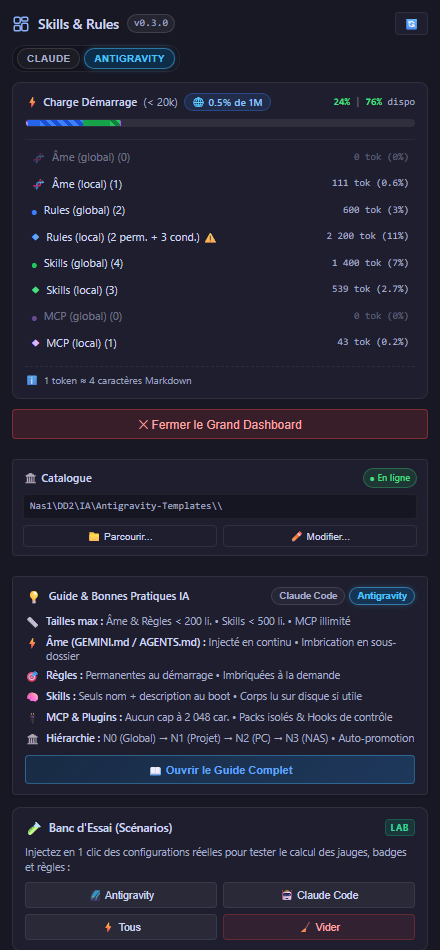
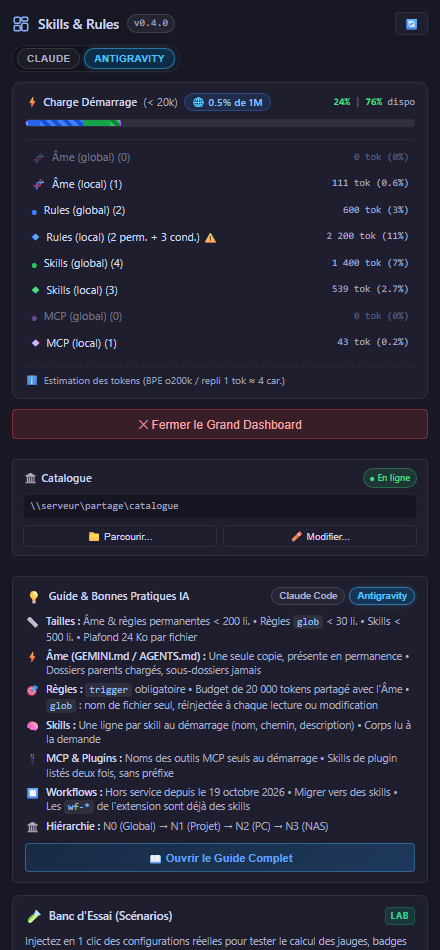
chore: remplacer les données d'infrastructure réelles par des exemples génériques
- Captures d'écran régénérées (dashboard.png, sidebar.png, cheatsheet.png)
  à partir d'un état fictif assaini : catalogue \serveur\partage\catalogue,
  aucun service réel dans les descriptions, version v0.4.0.
- capture-webviews.js : chemins, description de wf-deploy et version
  assainis.
- Exemples de chemins UNC remplacés par \serveur\partage dans les
  commentaires de NasPathService et NasScanner, dans les tests et dans
  le skill wf-github-publish.
- README : nombre de tests retiré de la section Tests.

diff --git a/.agents/skills/wf-github-publish/scripts/capture-webviews.js b/.agents/skills/wf-github-publish/scripts/capture-webviews.js
@@ -60,7 +60,7 @@ const vsCodeThemeVars = `
 const realisticState = {
   nasStatus: {
     online: true,
-    path: "\\\\Nas1\\DD2\\IA\\Antigravity-Templates",
+    path: "\\\\serveur\\partage\\catalogue",
     checkedAt: Date.now()
   },
   workspace: {
@@ -94,7 +94,7 @@ const realisticState = {
       scope: "nas",
       enabled: true,
       lineCount: 45,
-      path: "\\\\Nas1\\DD2\\IA\\Antigravity-Templates\\GEMINI.md",
+      path: "\\\\serveur\\partage\\catalogue\\GEMINI.md",
       syncStatus: "synced",
       metadata: { isSoul: true, locked: true }
     },
@@ -106,7 +106,7 @@ const realisticState = {
       scope: "nas",
       enabled: true,
       lineCount: 35,
-      path: "\\\\Nas1\\DD2\\IA\\Antigravity-Templates\\rules\\01-rule-perm-standard-always-on.md",
+      path: "\\\\serveur\\partage\\catalogue\\rules\\01-rule-perm-standard-always-on.md",
       syncStatus: "synced",
       metadata: { isPermanent: true }
     },
@@ -118,7 +118,7 @@ const realisticState = {
       scope: "nas",
       enabled: true,
       lineCount: 68,
-      path: "\\\\Nas1\\DD2\\IA\\Antigravity-Templates\\skills\\skill-brainstorming\\SKILL.md",
+      path: "\\\\serveur\\partage\\catalogue\\skills\\skill-brainstorming\\SKILL.md",
       syncStatus: "synced"
     },
     {
@@ -129,19 +129,19 @@ const realisticState = {
       scope: "nas",
       enabled: true,
       lineCount: 91,
-      path: "\\\\Nas1\\DD2\\IA\\Antigravity-Templates\\skills\\wf-commit\\SKILL.md",
+      path: "\\\\serveur\\partage\\catalogue\\skills\\wf-commit\\SKILL.md",
       syncStatus: "synced",
       metadata: { isWorkflow: true }
     },
     {
       id: "wf-deploy",
       name: "wf-deploy",
-      description: "Action : Déploiement sécurisé GitHub avec webhook Coolify",
+      description: "Action : Déploiement sécurisé en production par webhook",
       type: "skill",
       scope: "nas",
       enabled: true,
       lineCount: 53,
-      path: "\\\\Nas1\\DD2\\IA\\Antigravity-Templates\\skills\\wf-deploy\\SKILL.md",
+      path: "\\\\serveur\\partage\\catalogue\\skills\\wf-deploy\\SKILL.md",
       syncStatus: "synced",
       metadata: { isWorkflow: true }
     }
@@ -311,7 +311,7 @@ function buildDashboardHtml() {
   let html = tpl
     .replace(/<meta http-equiv="Content-Security-Policy"[^>]*>/i, '')
     .replace(/<link rel="stylesheet" href="\{\{styleUri\}\}">/i, `<style>${stylesCss}\n${vsCodeThemeVars}</style>`)
-    .replace('{{version}}', 'v0.3.0');
+    .replace('{{version}}', 'v0.4.0');
 
   const injectScript = `
   <script>
@@ -345,7 +345,7 @@ function buildSidebarHtml() {
   let html = tpl
     .replace(/<meta http-equiv="Content-Security-Policy"[^>]*>/i, '')
     .replace(/<link rel="stylesheet" href="\{\{styleUri\}\}">/i, `<style>${stylesCss}\n${vsCodeThemeVars}</style>`)
-    .replace('{{version}}', 'v0.3.0');
+    .replace('{{version}}', 'v0.4.0');
 
   const injectScript = `
   <script>
@@ -379,7 +379,7 @@ function buildCheatSheetHtml() {
   let html = tpl
     .replace(/<meta http-equiv="Content-Security-Policy"[^>]*>/i, '')
     .replace(/<link rel="stylesheet" href="\{\{styleUri\}\}">/i, `<style>${stylesCss}\n${vsCodeThemeVars}</style>`)
-    .replace('{{version}}', 'v0.3.0');
+    .replace('{{version}}', 'v0.4.0');
 
   const injectScript = `
   <script>

diff --git a/test/settings.test.ts b/test/settings.test.ts
@@ -340,8 +340,8 @@ describe('Suite de Tests : Réglages des registres et du répertoire NAS', () =>
   });
 
   test("17. Chemins réseau : chaque syntaxe de plateforme est normalisée sans être dénaturée", () => {
-    assert.strictEqual(normalizeNetworkPath('\\\\Nas1\\DD2\\IA\\skills\\'), '\\\\Nas1\\DD2\\IA\\skills');
-    assert.strictEqual(normalizeNetworkPath('//Nas1/DD2/IA/skills'), '\\\\Nas1\\DD2\\IA\\skills');
+    assert.strictEqual(normalizeNetworkPath('\\\\serveur\\partage\\skills\\'), '\\\\serveur\\partage\\skills');
+    assert.strictEqual(normalizeNetworkPath('//serveur/partage/skills'), '\\\\serveur\\partage\\skills');
     assert.strictEqual(normalizeNetworkPath('Z:\\skills\\'), 'Z:\\skills');
     assert.strictEqual(normalizeNetworkPath('/Volumes/nas/skills/'), '/Volumes/nas/skills');
     assert.strictEqual(normalizeNetworkPath('/mnt//nas///skills'), '/mnt/nas/skills');
@@ -366,9 +366,9 @@ describe('Suite de Tests : Réglages des registres et du répertoire NAS', () =>
 
   test("19. Précédence du chemin NAS : l'espace de travail prime sur l'utilisateur", () => {
     const config = new FakeConfiguration();
-    config.user.set(NAS_DIRECTORY_SETTING, '\\\\Nas1\\DD2\\IA\\skills');
+    config.user.set(NAS_DIRECTORY_SETTING, '\\\\serveur\\partage\\skills');
     const service = new NasPathService(config, undefined, {} as NodeJS.ProcessEnv);
-    assert.strictEqual(service.getEffectivePath(), '\\\\Nas1\\DD2\\IA\\skills');
+    assert.strictEqual(service.getEffectivePath(), '\\\\serveur\\partage\\skills');
 
     config.workspace.set(NAS_DIRECTORY_SETTING, 'Z:\\equipe\\skills');
     assert.strictEqual(service.getEffectivePath(), 'Z:\\equipe\\skills');
@@ -454,7 +454,7 @@ describe('Suite de Tests : Réglages des registres et du répertoire NAS', () =>
   });
 
   test("22. Hôte UNC : le nom de serveur est extrait d'un chemin réseau Windows", () => {
-    assert.strictEqual(NasPathService.getUncHost('\\\\Nas1\\DD2\\IA'), 'nas1');
+    assert.strictEqual(NasPathService.getUncHost('\\\\serveur\\partage'), 'serveur');
     assert.strictEqual(NasPathService.getUncHost('//Serveur/partage'), 'serveur');
     assert.strictEqual(NasPathService.getUncHost('Z:\\skills'), null);
     assert.strictEqual(NasPathService.getUncHost(''), null);

diff --git a/test/integrity.test.ts b/test/integrity.test.ts
@@ -531,8 +531,8 @@ describe('Suite de Tests : Intégrité & Synchronisation NAS vs Local', () => {
 
   test('17. Extraction hôte UNC : extrait correctement l\'hôte du NAS pour security.allowedUNCHosts', async () => {
     const { NasScanner } = await import('../src/services/NasScanner');
-    assert.strictEqual(NasScanner.getUncHost('\\\\Nas1\\DD2\\IA\\Templates'), 'nas1');
-    assert.strictEqual(NasScanner.getUncHost('//NAS1/share/folder'), 'nas1');
+    assert.strictEqual(NasScanner.getUncHost('\\\\serveur\\partage\\catalogue'), 'serveur');
+    assert.strictEqual(NasScanner.getUncHost('//SERVEUR/partage/dossier'), 'serveur');
     assert.strictEqual(NasScanner.getUncHost('C:\\Users\\LocalUser'), null);
   });
 
@@ -895,7 +895,7 @@ globs: "*.ts"
   });
 
   test('26. Détection et Import de l\'Âme Réseau (GEMINI.md) via NasScanner et ImportService', async () => {
-    const testNas = path.join(tempBaseDir, 'Antigravity-Templates');
+    const testNas = path.join(tempBaseDir, 'catalogue');
     const testWorkspace = path.join(tempBaseDir, 'ws-soul-test');
     const backupCerveauDir = path.join(tempBaseDir, 'backup_cerveau_ia', '.gemini');
 
@@ -2142,7 +2142,7 @@ Corps du texte.`;
     );
 
     // 3. Vérification de l'intégrité visuelle du chemin UNC
-    const sampleUnc = '\\\\Nas1\\DD2\\IA\\Antigravity-Templates';
+    const sampleUnc = '\\\\serveur\\partage\\catalogue';
     assert.strictEqual(sampleUnc.startsWith('\\\\'), true, 'Le chemin UNC doit commencer par \\\\');
     assert.strictEqual(sampleUnc.endsWith('\\\\'), false, 'Le chemin UNC ne doit pas avoir ses antislashs déplacés en fin');
   });

diff --git a/src/settings/NasPathService.ts b/src/settings/NasPathService.ts
@@ -193,7 +193,7 @@ export class NasPathService {
     return this.validatePath();
   }
 
-  /** Extrait le nom d'hôte d'un chemin UNC, par exemple `\\Nas1\DD2` → `nas1`. */
+  /** Extrait le nom d'hôte d'un chemin UNC, par exemple `\\serveur\partage` → `serveur`. */
   public static getUncHost(targetPath: string): string | null {
     if (!targetPath) return null;
     const normalized = targetPath.replace(/\//g, '\\');

diff --git a/src/services/NasScanner.ts b/src/services/NasScanner.ts
@@ -14,7 +14,7 @@ try {
 
 export class NasScanner {
   /**
-   * Extrait le nom d'hôte d'un chemin UNC (ex: "\\Nas1\share" -> "nas1")
+   * Extrait le nom d'hôte d'un chemin UNC (ex: "\\serveur\partage" -> "serveur")
    */
   public static getUncHost(targetPath: string): string | null {
     if (!targetPath) return null;

diff --git a/README.md b/README.md
@@ -217,10 +217,10 @@ Le panneau latéral s'ouvre depuis son icône dans la barre d'activité. Dans la
 
 ## 🧪 Tests & Qualité de Code
 
-Le projet est couvert par une suite de 178 tests unitaires automatisés validant la synchronisation de données, l'intégrité, l'isolation bi-moteur, le Coach IA, le médiateur d'événements, la détection d'environnement, la recherche fédérée, les favoris hors ligne et le pipeline de déploiement :
+Le projet est couvert par une suite de tests unitaires automatisés validant la synchronisation de données, l'intégrité, l'isolation bi-moteur, le Coach IA, le médiateur d'événements, la détection d'environnement, la recherche fédérée, les favoris hors ligne et le pipeline de déploiement :
 
 ```bash
-npm test          # contrôle syntaxique des vues, compilation et 178 tests
+npm test          # contrôle syntaxique des vues, compilation et tests unitaires
 npm run type-check # vérification de types stricte, sans émission
 npm run bundle     # paquet de production esbuild (dist/extension.js)
 npm run package    # archive .vsix distribuable

diff --git a/.agents/skills/wf-github-publish/references/readme-template.md b/.agents/skills/wf-github-publish/references/readme-template.md
@@ -97,7 +97,7 @@ code --install-extension {package-name}-{version}.vsix
 
 | Paramètre | Type | Valeur par défaut | Description |
 | :--- | :--- | :--- | :--- |
-| `skillsManager.nasPath` | `string` | `\\\\Nas1\\DD2\\IA\\Antigravity-Templates` | Chemin UNC vers le catalogue maître NAS |
+| `skillsManager.nasPath` | `string` | `""` | Chemin UNC ou local du catalogue maître NAS, par exemple `\\serveur\partage\catalogue`. Laisser vide sans catalogue |
 | `skillsManager.globalPath` | `string` | `""` (auto-détecté `~/.gemini/config`) | Emplacement des compétences globales Antigravity |
 | `skillsManager.claudeGlobalPath` | `string` | `""` (auto-détecté `~/.claude`) | Emplacement des compétences Claude Code |
 | `skillsManager.defaultProjectTool` | `enum` | `"auto-detect"` | Outil cible local (`auto-detect`, `antigravity`, `claude-code`) |
